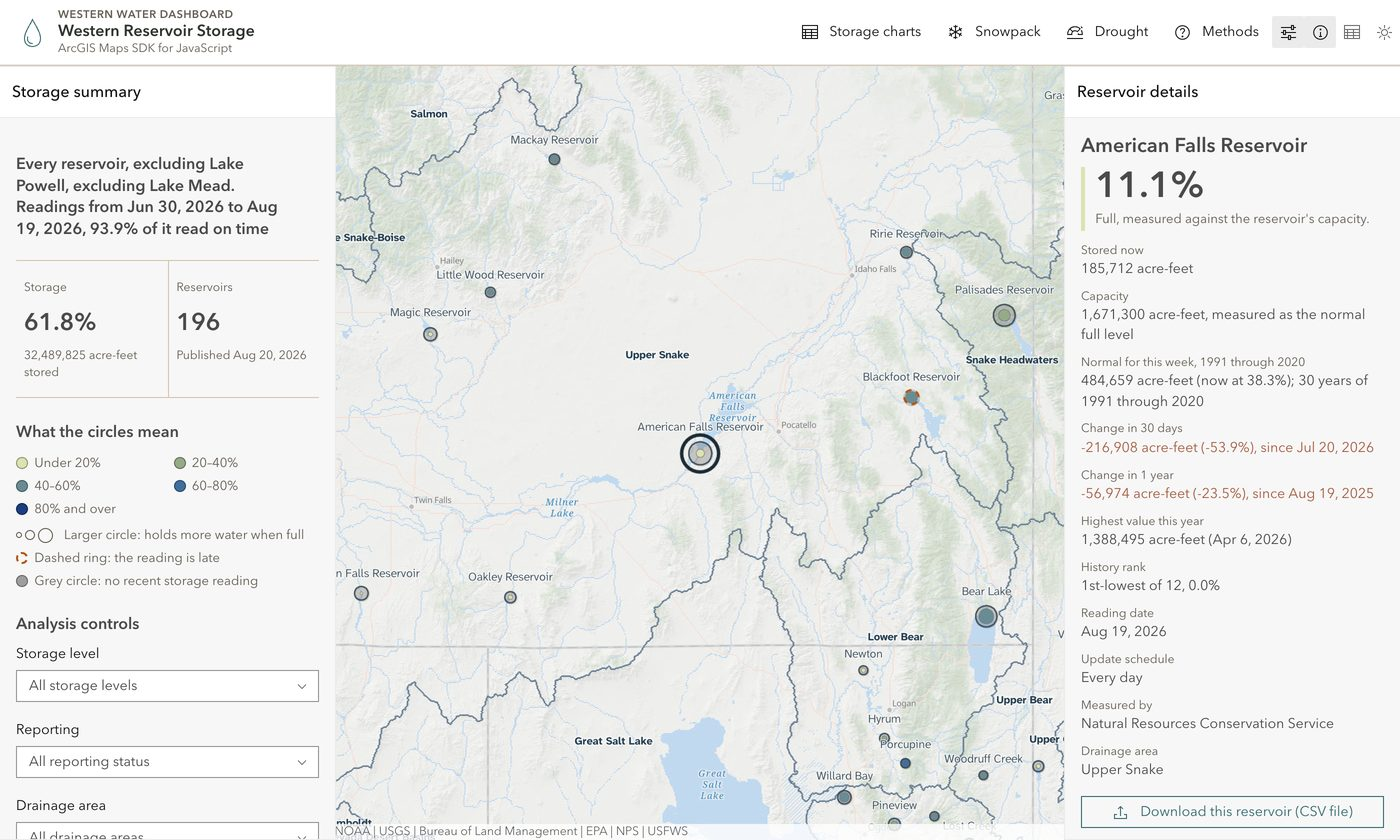
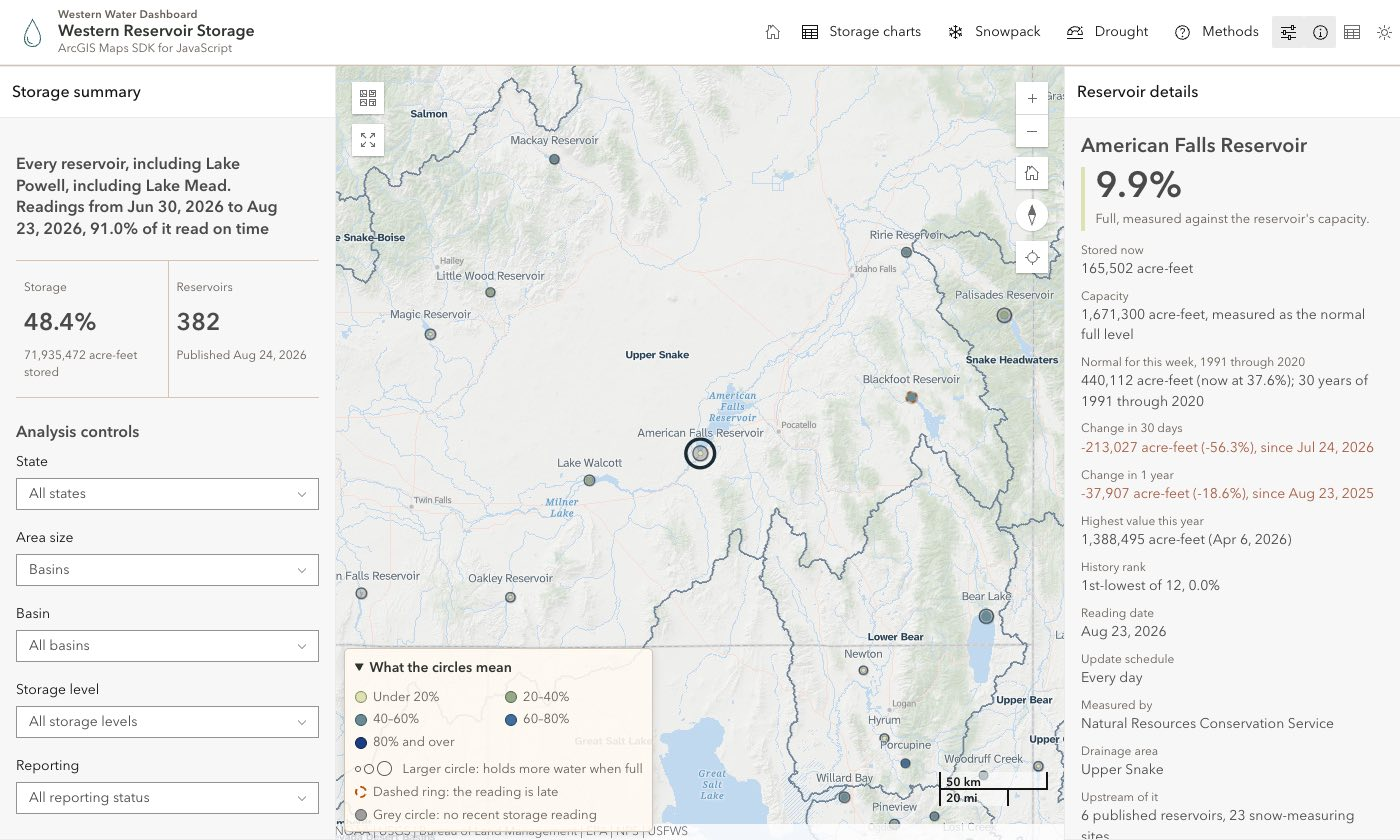
Bring the water dashboard note up to the site it describes
The roster grew and the note did not. It said 198 reservoirs from two
agencies; the site publishes 382 from five, and the two the note named are no
longer the two largest. The Natural Resources Conservation Service reads 168,
the California Department of Water Resources 142, the Bureau of Reclamation
55, the Colorado Division of Water Resources 10, and the U.S. Geological
Survey 7. Those reservoirs sit in 54 of the 75 drainage areas, not 40. The
repository holds 95 decision records, not 68. Lake Powell and Lake Mead no
longer start excluded, so the map opens on all 382 rather than 196.

Every screenshot is retaken against the published site. The charts figure is
gone: it led with the chart-display filter bar rather than a map, and this
page is about the maps. The drought map's second surface takes its place,
which is the one view that answers what changed instead of what is.

New sections. "How to use it" covers the three verbs the application is built
around, including the popup inversion, which is the most demonstrable design
decision on the site: hover gives a card, a click opens the panel, and popups
are off everywhere on purpose. The snowpack paragraph now carries the season
itself. Across the 218 days with more than an inch of normal to divide by, the
region never reached 100 percent of normal, and the day holding the most water
was itself at 60.7 percent of its own.

The upstream tracing is named correctly as the U.S. Geological Survey
[…]

diff --git a/notes/utah-water-dashboard-rebuild/index.html b/notes/utah-water-dashboard-rebuild/index.html
@@ -34,7 +34,7 @@
       "description": "How a job-interview map became the Western Water Dashboard: reservoir storage, snowpack, and drought for eleven western states in one ArcGIS 5.1 application, rebuilt with AI agents under written rules.",
       "image": "https://buschbrian.github.io/assets/images/western-water-dashboard-map.jpg",
       "datePublished": "2026-08-17",
-      "dateModified": "2026-08-20",
+      "dateModified": "2026-08-24",
       "mainEntityOfPage": {
         "@type": "WebPage",
         "@id": "https://buschbrian.github.io/notes/utah-water-dashboard-rebuild/"
@@ -73,7 +73,7 @@
             the map with AI agents that work under written rules.
           </p>
           <div class="post-meta-grid">
-            <div><span>Reservoirs</span><strong>198, from two agencies</strong></div>
+            <div><span>Reservoirs</span><strong>382, from five sources</strong></div>
             <div><span>Snow sites</span><strong>637, measured each day</strong></div>
             <div><span>Drainage areas</span><strong>75, in eleven states</strong></div>
             <div><span>Refresh</span><strong>Each morning, GitHub Actions</strong></div>
@@ -81,16 +81,18 @@
         </header>
 
         <figure class="post-hero-image">
-          <picture><source type="image/webp" srcset="/assets/images/r/western-water-dashboard-map-480.webp 480w, /assets/images/r/western-water-dashboard-map-960.webp 960w, /assets/images/r/western-water-dashboard-map-1400.webp 1400w" sizes="(max-width: 820px) 100vw, 1112px"><img src="/assets/images/western-water-dashboard-map.jpg" alt="The storage map covering eleven western states. A side panel gives the combined storage, the reservoir count, and the key to the circles." width="1400" height="840" fetchpriority="high"></picture>
-          <figcaption>The storage map, from the Canadian border to Mexico. The panel adds up the 196 reservoirs the map opens with. Circle size shows how much water a reservoir holds when full. Circle color shows how full it is now. The outlines are the 75 drainage areas.</figcaption>
+          <picture><source type="image/webp" srcset="/assets/images/r/western-water-dashboard-map-480.webp 480w, /assets/images/r/western-water-dashboard-map-960.webp 960w, /assets/images/r/western-water-dashboard-map-1400.webp 1400w" sizes="(max-width: 820px) 100vw, 1112px"><img src="/assets/images/western-water-dashboard-map.jpg" alt="The storage map covering eleven western states. A side panel gives the combined storage and the reservoir count. A key on the map explains the circles." width="1400" height="840" fetchpriority="high"></picture>
+          <figcaption>The storage map. The panel adds up the 382 reservoirs the map opens with. Circle size shows how much water a reservoir holds when full. Circle color shows how full it is now. The outlines are the 75 drainage areas.</figcaption>
         </figure>
 
         <div class="post-content">
           <p class="source-note">
-            Update, August 20, 2026. The project started as a Utah dashboard.
+            Update, August 24, 2026. The project started as a Utah dashboard.
             It now covers eleven western states, and it is called the Western
-            Water Dashboard. The address changed with the name. The text and the
-            screenshots on this page are from August 20, 2026.
+            Water Dashboard. The address changed with the name. The counts on
+            this page are the ones the site published on August 24, 2026. The
+            roster grows as reservoirs pass review, so the live figure is
+            higher than a screenshot taken before that date.
           </p>
 
           <h2>The problem: no combined source</h2>
@@ -178,27 +180,31 @@
           </p>
 
           <figure class="post-hero-image">
-            <picture><source type="image/webp" srcset="/assets/images/r/western-water-dashboard-detail-480.webp 480w, /assets/images/r/western-water-dashboard-detail-960.webp 960w, /assets/images/r/western-water-dashboard-detail-1400.webp 1400w" sizes="(max-width: 820px) 100vw, 1112px"><img src="/assets/images/western-water-dashboard-detail.jpg" alt="American Falls Reservoir selected on the storage map. One side panel gives the combined storage. The other gives the percent full, the stored volume, the normal for the week, and the change over one year." width="1400" height="840" loading="lazy"></picture>
-            <figcaption>American Falls Reservoir, in the Upper Snake, at 11.1 percent of its full level. Select any reservoir for its complete record and the drainage area it drains to.</figcaption>
+            <picture><source type="image/webp" srcset="/assets/images/r/western-water-dashboard-detail-480.webp 480w, /assets/images/r/western-water-dashboard-detail-960.webp 960w, /assets/images/r/western-water-dashboard-detail-1400.webp 1400w" sizes="(max-width: 820px) 100vw, 1112px"><img src="/assets/images/western-water-dashboard-detail.jpg" alt="American Falls Reservoir selected on the storage map. One side panel gives the combined storage. The other gives the percent full, the stored volume, the normal for the week, the change over one year, and the reservoirs and snow sites upstream of it." width="1400" height="840" loading="lazy"></picture>
+            <figcaption>American Falls Reservoir, in the Upper Snake, at 9.9 percent of its full level. Select any reservoir for its record, the drainage area it sits in, and what drains into it.</figcaption>
           </figure>
 
           <h2>What the dashboard shows</h2>
           <p>
-            The storage map is the primary view. The site publishes 198
-            reservoirs, 30 measured by the Bureau of Reclamation and 168 by the
-            Natural Resources Conservation Service. The map opens on 196 of
-            them, because Lake Powell and Lake Mead start excluded. They sit in
-            40 of the 75 drainage areas. The other 35 hold no reservoir on the roster yet. To admit a
-            reservoir, I must trace a full level to a named source and review
-            it. That work is separate from drawing the ground, so the map draws
-            areas that hold nothing.
+            The storage map is the primary view. The site publishes 382
+            reservoirs, and five agencies measure them. The Natural Resources
+            Conservation Service reads 168. The California Department of Water
+            Resources reads 142. The Bureau of Reclamation reads 55, the
+            Colorado Division of Water Resources 10, and the U.S. Geological
+            Survey 7.
+            Those reservoirs sit in 54 of the 75 drainage areas. The other 21
+            hold no reservoir on the roster yet. To admit a reservoir, I must
+            trace a full level to a named source and review it. That work is
+            separate from drawing the ground, so the map draws areas that hold
+            nothing.
           </p>
           <p>
             Two reservoirs get their own controls. Lake Powell and Lake Mead
             are each large enough to hide every other reservoir in a combined
-            total, so the default view excludes both. You can add either one
-            back at any time. A total with them and a total without them are
-            both true, and they are not the same measurement.
+            total. The map now opens with both of them switched on, and the
+            summary says so in words before it gives you a number. You can
+            remove either one at any time. A total with them and a total
+            without them are both true. They are not the same measurement.
           </p>
           <p>
             You can filter by state, by subregion, by drainage area, by county,
@@ -220,7 +226,7 @@
 
           <figure class="post-hero-image">
             <picture><source type="image/webp" srcset="/assets/images/r/western-water-dashboard-table-480.webp 480w, /assets/images/r/western-water-dashboard-table-960.webp 960w, /assets/images/r/western-water-dashboard-table-1400.webp 1400w" sizes="(max-width: 820px) 100vw, 1112px"><img src="/assets/images/western-water-dashboard-table.jpg" alt="The reservoir table below the map. It lists each reservoir with percent full, stored volume, full level, and drainage area, next to a bar chart of the same values." width="1400" height="840" loading="lazy"></picture>
-            <figcaption>All 196 reservoirs the map opens with, in a sortable table. The download gives you those rows, in the order on screen, as a CSV file.</figcaption>
+            <figcaption>All 382 reservoirs, in a sortable table under the map. The download gives you those rows, in the order on screen, as a CSV file.</figcaption>
           </figure>
 
           <p>
@@ -232,11 +238,6 @@
             same time.
           </p>
 
-          <figure class="post-hero-image">
-            <picture><source type="image/webp" srcset="/assets/images/r/western-water-dashboard-charts-480.webp 480w, /assets/images/r/western-water-dashboard-charts-960.webp 960w, /assets/images/r/western-water-dashboard-charts-1400.webp 1400w" sizes="(max-width: 820px) 100vw, 1112px"><img src="/assets/images/western-water-dashboard-charts.jpg" alt="Two bar charts on the storage charts page. One ranks the largest reservoirs by percent full. The other shows combined conditions for each drainage area." width="1400" height="840" loading="lazy"></picture>
-            <figcaption>Six cross-filtered charts. One set of controls drives the charts, the summary strip, and the table together.</figcaption>
-          </figure>
-
           <p>
             Snow that falls on the mountains melts into the reservoirs, so this
             winter's snow is next summer's storage. The snowpack page shows
@@ -244,6 +245,24 @@
             make if it melted. It reads 637 measurement sites in eleven states
             and opens on the day the season held the most snow, because that is
             the day the rest of the year is judged against.
+          </p>
+          <p>
+            The season on this page never reached normal. Between November 12
+            and June 17 there were 218 days when the normal for the date held
+            more than an inch of water, which is the span where the comparison
+            means anything. The region did not reach 100 percent of normal on
+            any of them. The closest it came was January 8, 2026, at 78.4
+            percent. Outside that span the ratio is noise. In early October the
+            normal is a few thousandths of an inch, so one storm divides into
+            four figures and means nothing.
+          </p>
+          <p>
+            The day with the most water was March 13, and that day held only
+            60.7 percent of its own normal. A snowpack can hold its deepest
+            water of the year and still fall well short of what the date
+            usually holds. Those are two different questions, so the site
+            answers them separately. The map opens on the deepest day. The
+            summary reports the best day against normal beside it.
           </p>
           <p>
             The sites are not spread evenly. An automated snow site sits in 51
@@ -255,7 +274,7 @@
 
           <figure class="post-hero-image">
             <picture><source type="image/webp" srcset="/assets/images/r/western-water-dashboard-snow-480.webp 480w, /assets/images/r/western-water-dashboard-snow-960.webp 960w, /assets/images/r/western-water-dashboard-snow-1400.webp 1400w" sizes="(max-width: 820px) 100vw, 1112px"><img src="/assets/images/western-water-dashboard-snow.jpg" alt="The snowpack map on the season high point. Each drainage area is colored by its mean percent of normal. Each measurement site is a point on the same color scale." width="1400" height="840" loading="lazy"></picture>
-            <figcaption>The season high point, March 13, 2026, from 538 of the 637 sites. Snow by drainage area and by site, on one color scale. A slider moves through the season, day by day.</figcaption>
+            <figcaption>The season high point, March 13, 2026, from 549 of the 637 sites. Snow by drainage area and by site, on one color scale. A slider moves through the season, day by day.</figcaption>
           </figure>
 
           <p>
@@ -276,8 +295,83 @@
 
           <figure class="post-hero-image">
             <picture><source type="image/webp" srcset="/assets/images/r/western-water-dashboard-drought-480.webp 480w, /assets/images/r/western-water-dashboard-drought-960.webp 960w, /assets/images/r/western-water-dashboard-drought-1400.webp 1400w" sizes="(max-width: 820px) 100vw, 1112px"><img src="/assets/images/western-water-dashboard-drought.jpg" alt="The weekly drought map in the U.S. Drought Monitor colors, with the 75 drainage area boundaries drawn on top. Land the monitor does not measure is gray." width="1400" height="840" loading="lazy"></picture>
-            <figcaption>The Drought Monitor map for the week of August 11, 2026. Drought does not stop at a drainage area boundary, so the wider pattern is drawn too. The gray beyond the border is land the monitor does not measure.</figcaption>
+            <figcaption>The Drought Monitor map for the week of August 18, 2026. Drought does not stop at a drainage area boundary, so the wider pattern is drawn too. The gray beyond the border is land the monitor does not measure.</figcaption>
           </figure>
+
+          <p>
+            The drought map draws a second surface. It measures each drainage
+            area against the week before it, and colors how much of that area's
+            land moved into or out of severe drought. This is the one view on
+            the site that answers "what changed" instead of "what is". It uses
+            its own diverging colors, because the Drought Monitor palette
+            belongs to the Drought Monitor and a map that borrows it for
+            something else teaches a reader the wrong thing.
+          </p>
+          <p>
+            The comparison appears only when a second week exists to compare
+            against. A control that switches to a blank map tells a reader the
+            comparison is there and then shows them nothing.
+          </p>
+
+          <figure class="post-hero-image">
+            <picture><source type="image/webp" srcset="/assets/images/r/western-water-dashboard-drought-change-480.webp 480w, /assets/images/r/western-water-dashboard-drought-change-960.webp 960w, /assets/images/r/western-water-dashboard-drought-change-1400.webp 1400w" sizes="(max-width: 820px) 100vw, 1112px"><img src="/assets/images/western-water-dashboard-drought-change.jpg" alt="The drought change map. Each drainage area is colored on a pink to green scale for how much of its land moved into or out of severe drought since the week before." width="1400" height="840" loading="lazy"></picture>
+            <figcaption>The same week, measured against the one before it. Pink is drier and green is wetter. The Oregon Closed Basins lost the most ground. The Upper Snake and the Snake Headwaters gained the most.</figcaption>
+          </figure>
+
+          <h2>How to use it</h2>
+          <p>
+            Hover to scan. Click to investigate. Link to share. Those three
+            verbs cover most of the application. The middle one is a deliberate
+            break from the default behavior of the ArcGIS Maps SDK.
+          </p>
+          <p>
+            The first screen asks two questions. You pick a place, either one
+            of the eleven states or one of the five regions. Then you pick a
+            subject: the storage map, the storage charts, the snowpack page, or
+            the drought page. A shared link never lands on that screen. Someone
+            who opens your link is being shown a thing, and a dialog in front
+            of it is a worse version of the page you sent.
+          </p>
+          <p>
+            On the storage map, a pointer over a reservoir gives you a small
+            card with the top-level reading. A click opens the full detail
+            panel. Popups are switched off everywhere, on purpose. A popup
+            covers the map at the moment you want to compare one reservoir
+            against its neighbors, and it holds less than a panel can.
+          </p>
+          <p>
+            The panel gives the last twelve months as a chart and as a table.
+            It also gives the four things a reader needs before quoting a
+            number:
+          </p>
+          <ul>
+            <li>who measures the reservoir</li>
+            <li>how often the reading updates</li>
+            <li>the drainage area the reservoir sits in</li>
+            <li>the normal for that week, from 1991 through 2020</li>
+          </ul>
+          <p>
+            The panel answers one more question. It tells you what drains into
+            that reservoir. Lake Mead reports 76 published reservoirs and 150
+            snow-measuring sites upstream of it. Those sets come from the
+            Network-Linked Data Index, a U.S. Geological Survey service. It
+            follows the national stream network from a point back up every
+            branch that feeds it. That is the difference between reading one
+            reservoir and reading the system that fills it.
+          </p>
+          <p>
+            Then you can send it. Every view has its own address. A copy button
+            next to the summary gives you the link to the exact view on your
+            screen. Each reservoir also has a page of its own. A sorted table,
+            a filtered map, and a selected reservoir all survive being pasted
+            into an email.
+          </p>
+          <p>
+            The place travels with you between pages. Narrow the storage map to
+            one drainage area, then open the snowpack page, and the snowpack
+            page opens on the same ground. The three maps exist to be compared.
+            A reader who narrows one of them has not asked to widen the others.
+          </p>
 
           <h2>The pipeline behind it</h2>
           <p>
@@ -298,7 +392,14 @@
 
           <h2>Decisions instead of preferences</h2>
           <p>
-            The repository holds 68 architecture decision records. Each one
+            A <a href="/projects/western-water-dashboard-atlas/">system atlas</a>
+            draws all of this as one interactive diagram: the sources, the
+            pipeline, the payloads, and the pages a reader sees. It is a
+            snapshot, generated on one date and frozen. The live system is the
+            dashboard, not the drawing.
+          </p>
+          <p>
+            The repository holds 95 architecture decision records. Each one
             states a problem, the options, the decision, and the consequences.
             They cover the geographic rule, the color ramp, the label order,
             the basemap, and the vocabulary.
@@ -355,8 +456,18 @@
             the <a href="https://buschbrian.github.io/western-water-dashboard/data.html" target="_blank" rel="noreferrer">public data API</a>,
             or the <a href="https://github.com/buschbrian/western-water-dashboard" target="_blank" rel="noreferrer">source on GitHub</a>.
             Agent skills: <a href="https://github.com/addyosmani/agent-skills" target="_blank" rel="noreferrer">addyosmani/agent-skills</a>.
-            Data: Bureau of Reclamation, Natural Resources Conservation Service, and the
+            Data sources. Reservoir storage: the Bureau of Reclamation, the
+            Natural Resources Conservation Service, the California Department
+            of Water Resources, the Colorado Division of Water Resources, and
+            the U.S. Geological Survey. Mountain snow: the Natural Resources
+            Conservation Service. Drought: the
             <a href="https://droughtmonitor.unl.edu/" target="_blank" rel="noreferrer">U.S. Drought Monitor</a>.
+            Full levels: the National Inventory of Dams, read from the U.S.
+            Army Corps of Engineers. Upstream tracing: the Network-Linked Data
+            Index, a U.S. Geological Survey service over the national stream
+            network. Every source, with its identifiers and its update rules,
+            is named on the
+            <a href="https://buschbrian.github.io/western-water-dashboard/methods.html" target="_blank" rel="noreferrer">methods page</a>.
             An earlier note describes the
             <a href="/notes/utah-reservoir-dashboard/">first version and its MapLibre GL JS comparison</a>.
             The project was called the Utah Water Dashboard until August 2026.

diff --git a/projects/index.html b/projects/index.html
@@ -64,9 +64,9 @@
           <div>
             <p class="project-meta">Personal Project | 2026</p>
             <h2>Western Water Dashboard</h2>
-            <p>Reservoir storage, mountain snow, and drought for eleven western states, in one ArcGIS Maps SDK for JavaScript 5.1 application. It covers 198 reservoirs, 637 snow measurement sites, and 75 drainage areas. A Python pipeline rebuilds the data each morning through GitHub Actions. Most of the code was written by AI agents under written rules, with human review on every change.</p>
+            <p>Reservoir storage, mountain snow, and drought for eleven western states, in one ArcGIS Maps SDK for JavaScript 5.1 application. It covers 382 reservoirs, 637 snow measurement sites, and 75 drainage areas. A Python pipeline rebuilds the data each morning through GitHub Actions. Most of the code was written by AI agents under written rules, with human review on every change.</p>
             <div class="tag-row"><span>ArcGIS Maps SDK for JS 5.1</span><span>ArcGIS charts</span><span>Python pipeline</span><span>Agentic AI</span></div>
-            <p class="project-action"><a href="/notes/utah-water-dashboard-rebuild/">Read the post</a> &middot; <a href="https://buschbrian.github.io/western-water-dashboard/" target="_blank" rel="noreferrer">View the live dashboard</a> &middot; <a href="/notes/utah-reservoir-dashboard/">Read the earlier note</a></p>
+            <p class="project-action"><a href="/notes/utah-water-dashboard-rebuild/">Read the post</a> &middot; <a href="https://buschbrian.github.io/western-water-dashboard/" target="_blank" rel="noreferrer">View the live dashboard</a> &middot; <a href="/projects/western-water-dashboard-atlas/">See the system atlas</a> &middot; <a href="/notes/utah-reservoir-dashboard/">Read the earlier note</a></p>
           </div>
         </article>
         <article class="project-feature" id="sidewalk-trails-master-plan">
